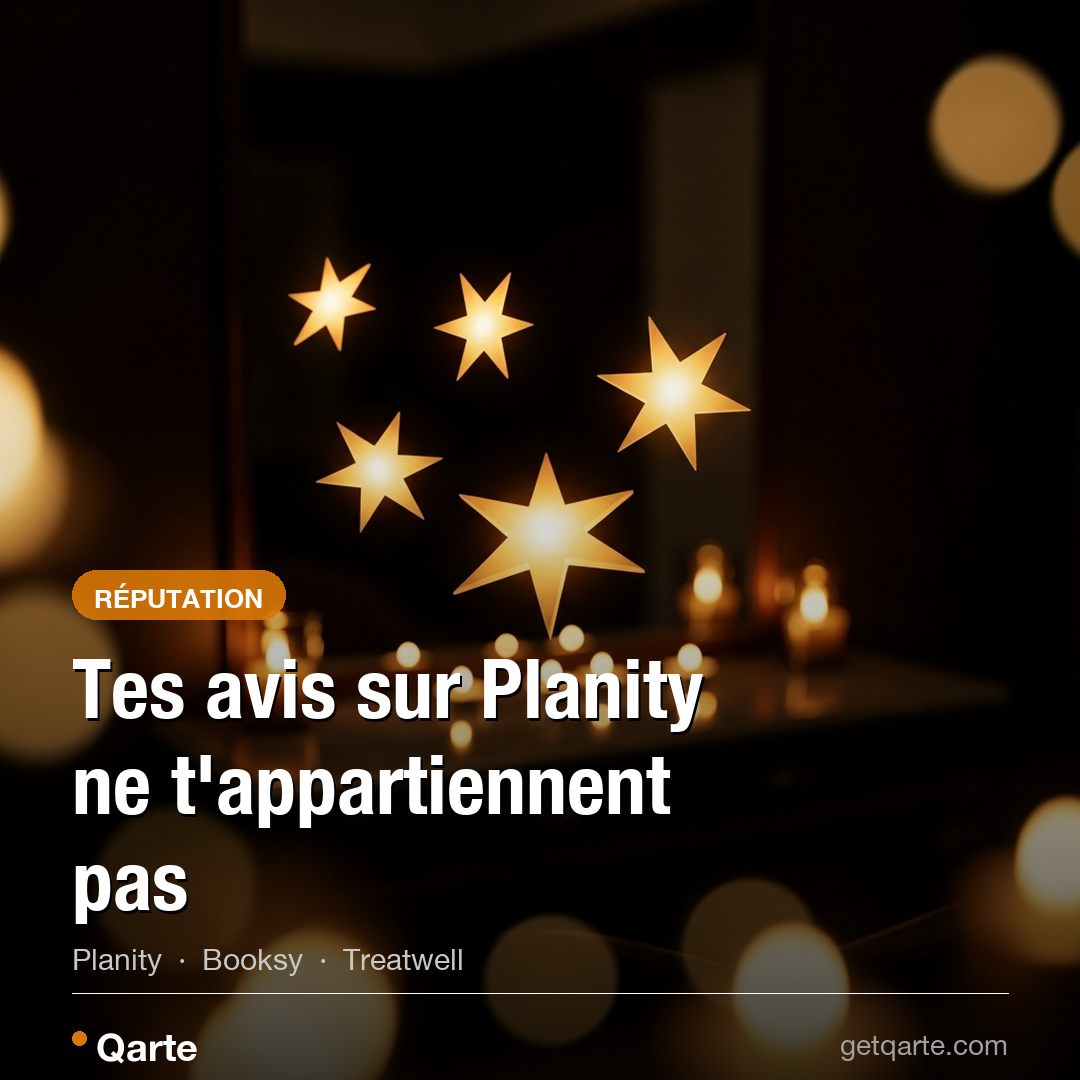
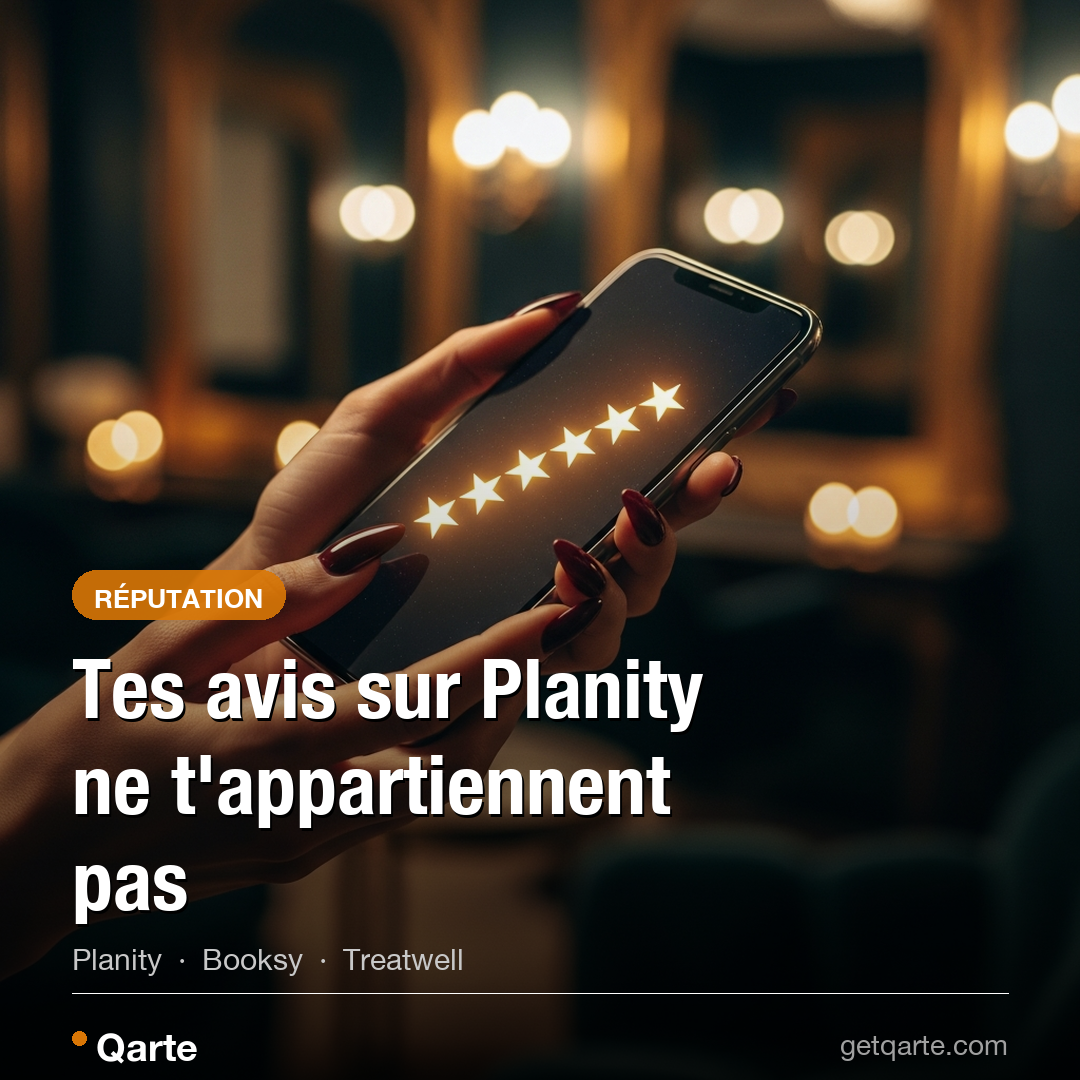
blog: regenerate article 3 cover + add social covers for articles 4-6 + fix Instagram article hero image
- Article 3 (RÉPUTATION): improved Imagen prompt, now shows hands holding phone with 5 stars instead of CGI floating stars
- Articles 4-6 (ACQUISITION/GESTION/OUTILS): new Instagram 1080×1080 social covers for comment-attirer, no-show, and comparatif articles
- ne-pas-mettre-lien-planity: replace Unsplash hero (showed Discord) with Imagen-generated image showing only Instagram/TikTok/Snapchat

diff --git a/src/app/[locale]/blog/ne-pas-mettre-lien-planity-bio-instagram/page.tsx b/src/app/[locale]/blog/ne-pas-mettre-lien-planity-bio-instagram/page.tsx
@@ -49,7 +49,7 @@ const jsonLd = {
       '@type': 'Article',
       headline: 'Pourquoi tu ne dois PAS mettre ton lien Planity, Booksy ou Treatwell dans ta bio Instagram',
       description: 'Mettre ton lien Planity en bio Instagram envoie tes abonnées chez la concurrente. Voici pourquoi et ce qu\'il faut faire à la place.',
-      image: 'https://images.unsplash.com/photo-1611162617213-7d7a39e9b1d7?auto=format&fit=crop&w=1200&q=80',
+      image: 'https://getqarte.com/blog/ne-pas-mettre-lien-planity-hero.jpg',
       datePublished: '2026-04-26',
       dateModified: '2026-04-26',
       author: { '@type': 'Organization', name: 'Qarte', url: 'https://getqarte.com' },
@@ -156,10 +156,10 @@ export default function Page() {
 
             <div className="mt-8 rounded-2xl overflow-hidden">
               <Image
-                src="https://images.unsplash.com/photo-1611162617213-7d7a39e9b1d7?auto=format&fit=crop&w=1200&q=80"
+                src="/blog/ne-pas-mettre-lien-planity-hero.jpg"
                 alt="Téléphone avec profil Instagram pour salon de beauté"
-                width={1200}
-                height={675}
+                width={1408}
+                height={768}
                 className="w-full h-auto"
                 priority
               />

diff --git a/src/app/[locale]/blog/ne-pas-mettre-lien-planity-bio-instagram/layout.tsx b/src/app/[locale]/blog/ne-pas-mettre-lien-planity-bio-instagram/layout.tsx
@@ -44,9 +44,9 @@ export async function generateMetadata(): Promise<Metadata> {
       type: 'article',
       images: [
         {
-          url: 'https://images.unsplash.com/photo-1611162617213-7d7a39e9b1d7?auto=format&fit=crop&w=1200&q=80',
-          width: 1200,
-          height: 630,
+          url: 'https://getqarte.com/blog/ne-pas-mettre-lien-planity-hero.jpg',
+          width: 1408,
+          height: 768,
           alt: isFr ? 'Téléphone avec profil Instagram pour salon de beauté' : 'Phone with Instagram profile for beauty salon',
         },
       ],

diff --git a/scripts/generate_blog_covers.py b/scripts/generate_blog_covers.py
@@ -88,10 +88,68 @@ ARTICLES = [
         ],
         'platform_line': 'Planity  ·  Booksy  ·  Treatwell',
         'imagen_prompt': (
-            'Five glowing golden stars floating dramatically against a very dark background, '
-            'beauty salon counter softly visible behind with warm amber candlelight, '
-            'macro photography, golden bokeh, no text, high contrast, cinematic, '
-            '100mm f/2.8 macro, shallow depth of field, luxury editorial aesthetic'
+            'Close-up of elegant manicured hands holding a sleek smartphone, '
+            'screen softly glowing showing five golden stars on a dark surface, '
+            'luxury Parisian beauty salon interior beautifully blurred behind, '
+            'warm amber candlelight bokeh, dark rich tones, no text on screen, '
+            'editorial fashion photography, 85mm f/1.2 shallow depth of field, '
+            'golden hour tones, cinematic, ultra sharp'
+        ),
+    },
+    {
+        'id': 4,
+        'filename': 'article-4-cover.png',
+        'label': 'ACQUISITION',
+        'label_rgb': (16, 185, 129),     # emerald
+        'title_lines': [
+            '12 stratégies pour',
+            'attirer plus de',
+            'clientes en salon',
+        ],
+        'platform_line': 'Google Business  ·  Instagram  ·  Fidélité',
+        'imagen_prompt': (
+            'Warm vibrant French beauty salon interior, elegant white styling chairs all occupied, '
+            'cheerful hairstylists at work with tools, golden morning sunlight through large arched windows, '
+            'fresh pink roses on the reception desk, welcoming and lively atmosphere, no people faces visible, '
+            'no text, editorial lifestyle photography, wide 35mm, warm creamy tones, luxury modern Parisian decor'
+        ),
+    },
+    {
+        'id': 5,
+        'filename': 'article-5-cover.png',
+        'label': 'GESTION',
+        'label_rgb': (234, 88, 12),      # orange
+        'title_lines': [
+            'No-show : diviser',
+            'par 4 les rendez-',
+            'vous manqués',
+        ],
+        'platform_line': 'Acompte  ·  Rappel SMS  ·  Annulation',
+        'imagen_prompt': (
+            'Close-up of a leather-bound appointment book lying open on a luxury beauty salon reception desk, '
+            'a sleek pen crossing out a time slot, moody dramatic studio lighting, '
+            'cool slate and deep shadow tones with warm amber accents, '
+            'blurred salon chairs softly visible in background bokeh, no text readable, '
+            'editorial photography, 50mm f/1.8, cinematic, ultra sharp foreground'
+        ),
+    },
+    {
+        'id': 6,
+        'filename': 'article-6-cover.png',
+        'label': 'OUTILS',
+        'label_rgb': (99, 102, 241),     # indigo
+        'title_lines': [
+            'Planity, Treatwell,',
+            'Booksy, Qarte :',
+            'le comparatif 2026',
+        ],
+        'platform_line': 'Planity  ·  Treatwell  ·  Booksy  ·  Qarte',
+        'imagen_prompt': (
+            'Sleek silver MacBook laptop on a clean marble beauty salon reception desk, '
+            'screen softly glowing with a clean booking interface, no readable text on screen, '
+            'minimalist modern Parisian decor, blurred white styling chairs in background, '
+            'cool blue-grey ambient lighting with warm gold accents, '
+            'editorial photography, 50mm f/1.4, shallow depth of field, luxury clean aesthetic'
         ),
     },
 ]
